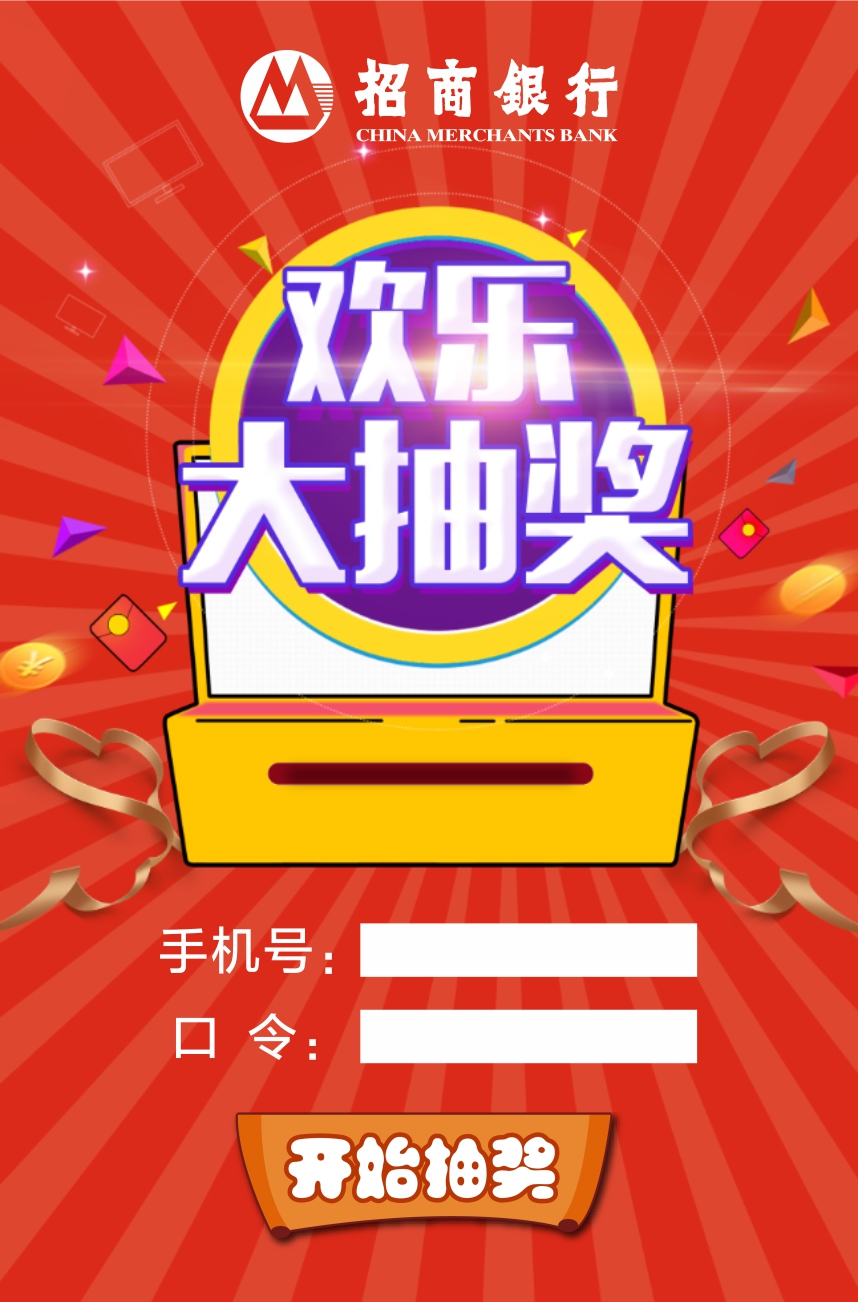
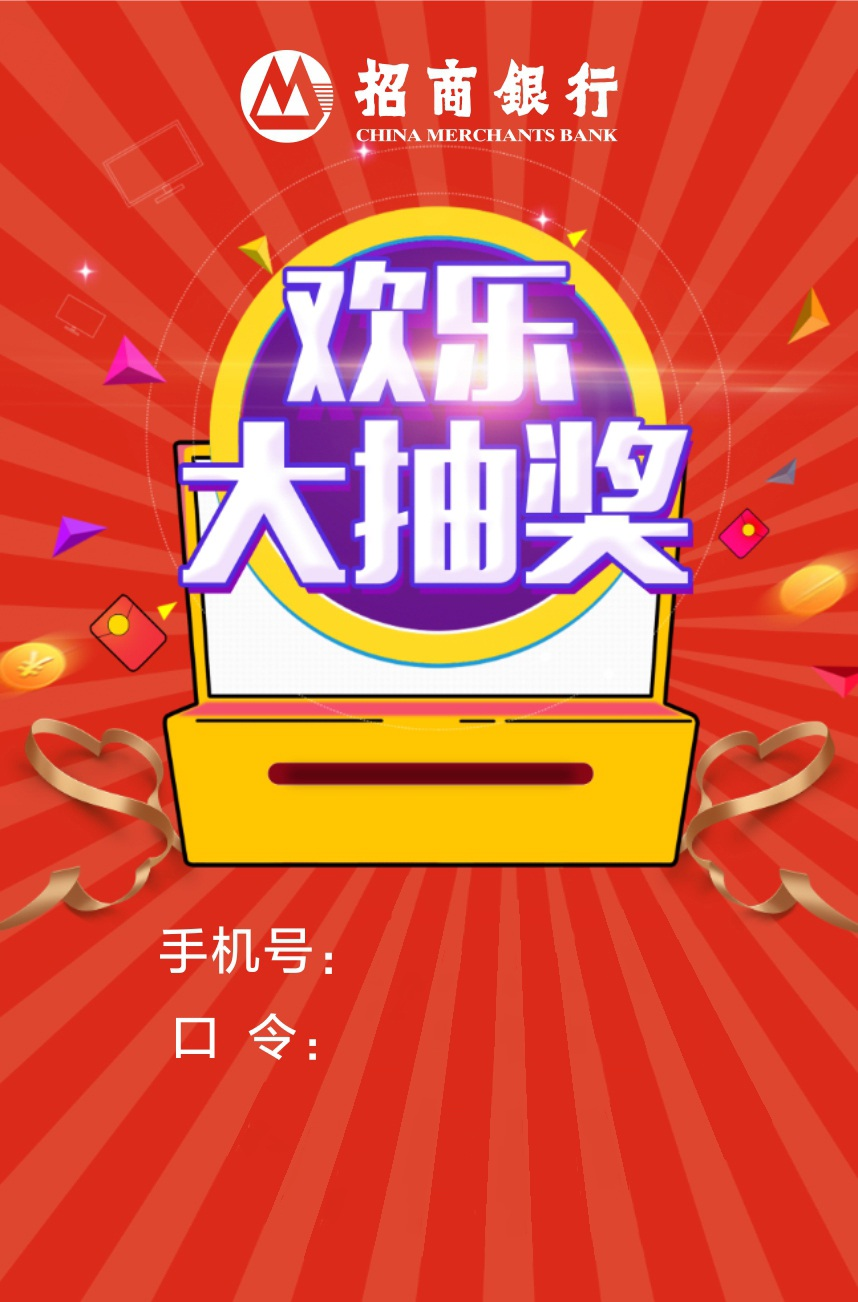
developing with shiro

Changed region(s): [[0.2727, 0.7066, 0.8182, 0.9524]]

diff --git a/src/main/resources/static/css/pb_login.css b/src/main/resources/static/css/pb_login.css
@@ -5,40 +5,36 @@
     min-width: 320px;
     min-height: 485px;
 }
-input {
-    BACKGROUND-COLOR: transparent;
-    BORDER-BOTTOM:transparent;
-    BORDER-LEFT: transparent;
-    BORDER-RIGHT: transparent;
-    BORDER-TOP: transparent;
+
+#loginForm {
+    margin-top: 101%;
+    margin-left: 32%;
+}
+
+#username {
+    margin-left: 5%;
 }
 
 #password {
-    margin-top: 6%;
-
-
-}
-
-#loginForm {
-    margin-top: 102%;
-    margin-left: 35%;
+    position: relative;
+    margin-top: 4%;
+    margin-left: 5%;
 }
 #submitBTN {
-    BACKGROUND-COLOR: transparent;
-    BORDER-BOTTOM:transparent;
-    BORDER-LEFT: transparent;
-    BORDER-RIGHT: transparent;
-    BORDER-TOP: transparent;
-    width: 110%;
-    height: 80%;
-    margin-left: -55%;
-    margin-top: 5%;
-    /*top: 80%;*/
-    COLOR: transparent;
-    /*border-color: #ffffff #ffffff #ffffff #ffffff; */
-    font-size: 30pt;
-}
-input:focus{
+    background: url("../images/login_btn.png");
+    background-size: 100% 100%;
+    margin-top: 10%;
+    margin-left: -40%;
+    border-bottom: transparent;
+    border-top: transparent;
+    border-left: transparent;
+    border-right: transparent;
     outline: none;
-    background-color:transparent;
 }
+#button_holder {
+
+    min-width: 160px;
+    min-height: 50px;
+}
+
+

diff --git a/src/main/resources/static/index.html b/src/main/resources/static/index.html
@@ -22,7 +22,7 @@
                 <form method="post" id="loginForm" action="/login">
                         <input type="text" id="username" name="username"><br>
                         <input type="password" id="password" name="password"><br>
-                    <button type="submit" id="submitBTN" >__</button>
+                    <button type="submit" id="submitBTN" ><div id="button_holder"></div></button>
                 </form>
         </div>
     </div>

diff --git a/src/main/java/com/yukoon/turntablegames/controllers/LoginController.java b/src/main/java/com/yukoon/turntablegames/controllers/LoginController.java
@@ -1,5 +1,6 @@
 package com.yukoon.turntablegames.controllers;
 
+import com.yukoon.turntablegames.config.PathConfig;
 import com.yukoon.turntablegames.entities.User;
 import com.yukoon.turntablegames.services.ActivityService;
 import com.yukoon.turntablegames.services.UserService;
@@ -26,6 +27,8 @@ public class LoginController {
     private UserService userService;
     @Autowired
     private ActivityService activityService;
+    @Autowired
+    private PathConfig pathConfig;
 
     @PostMapping("/login")
     public String login(Map<String,Object> map, User user,String flag){
@@ -51,7 +54,6 @@ public class LoginController {
         }
         user.setPassword(EncodeUtil.encodePassword(user.getPassword(),user.getUsername()));
         User user_temp = userService.login(user);
-		System.out.println(user);
         Integer act_status = activityService.getStatusById(user_temp.getAct_id());
         if (user_temp.getRole_id() == 2) {
             //若为管理员，则进入后台
@@ -61,6 +63,7 @@ public class LoginController {
             //若活动已经结束，则前往奖品查询页面
             return "redirect:/pbaward/" + user_temp.getId();
         }
+
         map.put("user",user_temp);
         map.put("act_status",act_status);
         return "public/pb_index";

diff --git a/src/main/java/com/yukoon/turntablegames/controllers/UploadController.java b/src/main/java/com/yukoon/turntablegames/controllers/UploadController.java
@@ -1,5 +1,6 @@
 package com.yukoon.turntablegames.controllers;
 
+import com.yukoon.turntablegames.config.PathConfig;
 import com.yukoon.turntablegames.services.ExcelUploadService;
 import com.yukoon.turntablegames.utils.FileUtil;
 import org.springframework.beans.factory.annotation.Autowired;
@@ -19,6 +20,8 @@ import java.util.Map;
 public class UploadController {
     @Autowired
     private ExcelUploadService excelUploadService;
+    @Autowired
+    private PathConfig pathConfig;
 
     //前往图片上传
     @GetMapping("/touploadimg/{act_id}")
@@ -35,7 +38,7 @@ public class UploadController {
     @PostMapping("/imgupload")
     public String upload(@RequestParam("pic")MultipartFile pic, HttpServletRequest request
             , Integer act_id, ModelMap modelMap){
-        String filePath = request.getSession().getServletContext().getRealPath("images/");
+        String filePath = pathConfig.getImagespath()+"/images/";
         String fileName = pic.getOriginalFilename();
         String uploadMsg = "图片上传成功!";
         if (!FileUtil.isImg(fileName)){

diff --git a/src/main/java/com/yukoon/turntablegames/config/PathConfig.java b/src/main/java/com/yukoon/turntablegames/config/PathConfig.java
@@ -1,0 +1,23 @@
+package com.yukoon.turntablegames.config;
+
+import org.springframework.beans.factory.annotation.Value;
+import org.springframework.boot.context.properties.ConfigurationProperties;
+import org.springframework.context.annotation.Configuration;
+import org.springframework.context.annotation.PropertySource;
+
+@Configuration
+@ConfigurationProperties(prefix = "pathconfig")
+@PropertySource("classpath:pathconfig.yml")
+public class PathConfig {
+
+	@Value("${imagespath}")
+	private String imagespath;
+
+	public String getImagespath() {
+		return imagespath;
+	}
+
+	public void setImagespath(String imagespath) {
+		this.imagespath = imagespath;
+	}
+}

diff --git a/src/main/java/com/yukoon/turntablegames/realms/UserRealm.java b/src/main/java/com/yukoon/turntablegames/realms/UserRealm.java
@@ -32,7 +32,6 @@ public class UserRealm extends AuthorizingRealm {
 		User user = new User().setUsername(username).setPassword(EncodeUtil.encodePassword(String.valueOf(upToken.getPassword()),username));
 		//3. 从数据库获取User准备进行比对
 		User user_temp = userService.login(user);
-		System.out.println(user_temp);
 		//4. 异常用户抛出异常
 		if (user_temp == null) {
 			throw new UnknownAccountException("用户不存在!");

diff --git a/src/main/java/com/yukoon/turntablegames/utils/EncodeUtil.java b/src/main/java/com/yukoon/turntablegames/utils/EncodeUtil.java
@@ -12,4 +12,8 @@ public class EncodeUtil {
 		Object result = new SimpleHash(hashAlgorithmName, credentials, salt, hashIterations);
 		return result.toString();
 	}
+
+	public static void main(String[] args) {
+		System.out.println(encodePassword("c1qa","123"));
+	}
 }
